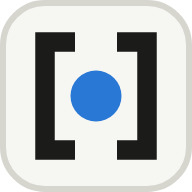
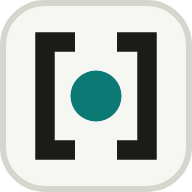
Add files via upload

Changed region(s): [[0.3438, 0.3438, 0.6562, 0.6562]]

diff --git a/chart.html b/chart.html
@@ -28,9 +28,9 @@
   :root {
     color-scheme: light;
     --page: #f6f6f3; --surface: #ffffff; --ink: #1b1b1a; --ink-2: #5a5955; --muted: #72716b;
-    --hairline: #e3e2dc; --grid: #ebeae4; --series: #2a78d6; --recession: rgba(27, 27, 26, 0.07);
-    --focus: #2a78d6; --banner: #fff4d6; --banner-ink: #5a4300; --max: 1120px;
-    --c1: #c06a14; --c2: #278a5d; --c3: #8a5bd6; --c4: #22879d; --c5: #c23b7a;
+    --hairline: #e3e2dc; --grid: #ebeae4; --series: #0b7a75; --recession: rgba(27, 27, 26, 0.07);
+    --focus: #0b7a75; --banner: #fff4d6; --banner-ink: #5a4300; --max: 1120px;
+    --c1: #c06a14; --c2: #7a5230; --c3: #8a5bd6; --c4: #6f7d1c; --c5: #c23b7a;   /* no blue, red, teal or green: those are the parties and the main series */
     --ref: #6b6a66;
     --dem: #4a7fd6; --rep: #d65b5b; --divided: #c9c8c0; --ind: #9c9a93;
     --era-a: #d8d6cd; --era-b: #c3c1b7; --war: #6e6c66; --qe-up: #8fcf9f; --qe-down: #e5b47e;
@@ -39,9 +39,9 @@
     :root {
       color-scheme: dark;
       --page: #121211; --surface: #1a1a19; --ink: #f0efec; --ink-2: #c3c2b7; --muted: #898781;
-      --hairline: #2c2c2a; --grid: #262624; --series: #3987e5; --recession: rgba(240, 239, 236, 0.08);
+      --hairline: #2c2c2a; --grid: #262624; --series: #2bb3a8; --focus: #2bb3a8; --recession: rgba(240, 239, 236, 0.08);
       --banner: #3a2f10; --banner-ink: #f3dfa0;
-      --c1: #e8954a; --c2: #44b983; --c3: #a07ce6; --c4: #3fb5cf; --c5: #d85a93;
+      --c1: #e8954a; --c2: #c19a6b; --c3: #a07ce6; --c4: #a8b84a; --c5: #d85a93;
       --ref: #a09e97; --dem: #5b8fe0; --rep: #e06a6a; --divided: #4a4945; --ind: #6b6a66;
       --era-a: #3a3935; --era-b: #4a4944; --war: #a5a39b; --qe-up: #3f7f55; --qe-down: #8c6a3b;
     }

diff --git a/index.html b/index.html
@@ -34,14 +34,14 @@
     --muted: #72716b;
     --hairline: #e3e2dc;
     --grid: #ebeae4;
-    --series: #2a78d6;
-    --series-wash: rgba(42, 120, 214, 0.10);
+    --series: #0b7a75;   /* deep teal: no party's color (the Democratic lane is blue) */
+    --series-wash: rgba(11, 122, 117, 0.10);
     --recession: rgba(27, 27, 26, 0.07);
-    --focus: #2a78d6;
+    --focus: #0b7a75;
     --banner: #fff4d6;
     --banner-ink: #5a4300;
-    --full-ink: #1f63b5;
-    --full-line: rgba(42, 120, 214, 0.45);
+    --full-ink: #0b6b66;
+    --full-line: rgba(11, 122, 117, 0.45);
     --max: 1120px;
   }
   @media (prefers-color-scheme: dark) {
@@ -54,13 +54,14 @@
       --muted: #898781;
       --hairline: #2c2c2a;
       --grid: #262624;
-      --series: #3987e5;
-      --series-wash: rgba(57, 135, 229, 0.14);
+      --series: #2bb3a8;
+      --series-wash: rgba(43, 179, 168, 0.14);
+      --focus: #2bb3a8;
       --recession: rgba(240, 239, 236, 0.08);
       --banner: #3a2f10;
       --banner-ink: #f3dfa0;
-      --full-ink: #6ea8f2;
-      --full-line: rgba(57, 135, 229, 0.6);
+      --full-ink: #5cc8be;
+      --full-line: rgba(43, 179, 168, 0.6);
     }
   }
 

diff --git a/assets/site.css b/assets/site.css
@@ -9,14 +9,14 @@
 :root {
   color-scheme: light;
   --page: #f6f6f3; --surface: #ffffff; --ink: #1b1b1a; --ink-2: #5a5955; --muted: #72716b;
-  --hairline: #e3e2dc; --grid: #ebeae4; --series: #2a78d6; --focus: #2a78d6;
+  --hairline: #e3e2dc; --grid: #ebeae4; --series: #0b7a75; --focus: #0b7a75;
   --banner: #fff4d6; --banner-ink: #5a4300; --max: 1120px; --measure: 42em;
 }
 @media (prefers-color-scheme: dark) {
   :root {
     color-scheme: dark;
     --page: #121211; --surface: #1a1a19; --ink: #f0efec; --ink-2: #c3c2b7; --muted: #898781;
-    --hairline: #2c2c2a; --grid: #262624; --series: #3987e5; --banner: #3a2f10; --banner-ink: #f3dfa0;
+    --hairline: #2c2c2a; --grid: #262624; --series: #2bb3a8; --focus: #2bb3a8; --banner: #3a2f10; --banner-ink: #f3dfa0;
   }
 }
 
